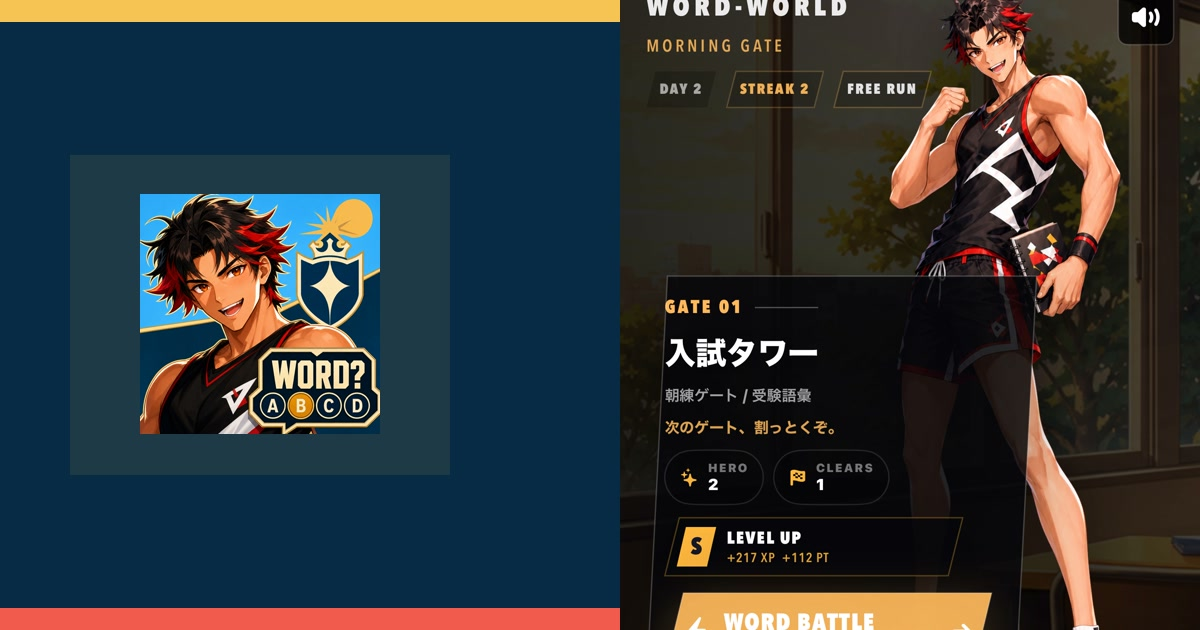
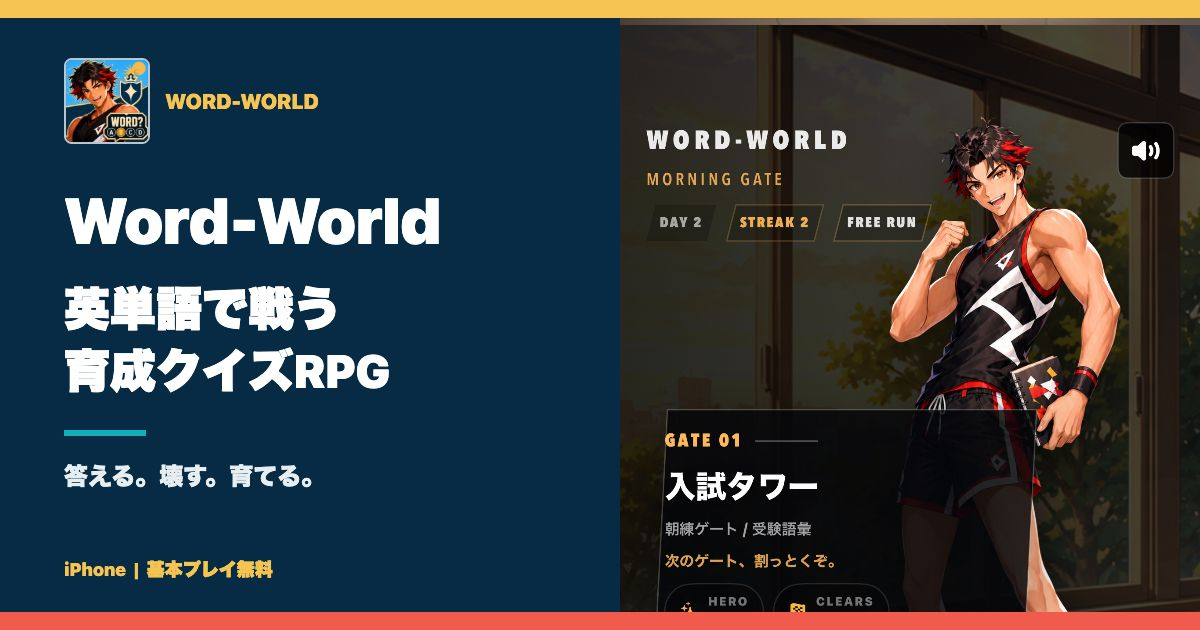
Strengthen launch social preview

diff --git a/social-card.html b/social-card.html
@@ -1,0 +1,99 @@
+<!doctype html>
+<html lang="ja">
+<head>
+  <meta charset="utf-8">
+  <title>Word-World Social Card</title>
+  <style>
+    * { box-sizing: border-box; }
+    html, body { margin: 0; width: 1200px; height: 630px; overflow: hidden; }
+    body {
+      position: relative;
+      background: #082b45;
+      color: #fff;
+      font-family: -apple-system, BlinkMacSystemFont, "Hiragino Sans", "Yu Gothic", sans-serif;
+      letter-spacing: 0;
+    }
+    body::before,
+    body::after {
+      content: "";
+      position: absolute;
+      z-index: 3;
+      left: 0;
+      right: 0;
+      height: 18px;
+    }
+    body::before { top: 0; background: #f6c453; }
+    body::after { bottom: 0; background: #f15b4e; }
+    .copy {
+      position: absolute;
+      z-index: 2;
+      inset: 0 auto 0 0;
+      width: 620px;
+      padding: 58px 58px 52px 64px;
+      background: #082b45;
+    }
+    .brand {
+      display: flex;
+      align-items: center;
+      gap: 15px;
+      margin-bottom: 44px;
+      color: #f6c453;
+      font-size: 21px;
+      font-weight: 900;
+    }
+    .brand img {
+      width: 86px;
+      height: 86px;
+      border: 2px solid rgba(255,255,255,.72);
+      border-radius: 8px;
+    }
+    h1 {
+      margin: 0;
+      font-size: 64px;
+      line-height: 1;
+      font-weight: 950;
+    }
+    h2 {
+      margin: 25px 0 0;
+      font-size: 46px;
+      line-height: 1.36;
+      font-weight: 950;
+    }
+    .rule { width: 82px; height: 6px; margin-top: 28px; background: #14aebb; }
+    p {
+      margin: 22px 0 0;
+      color: #e7eef2;
+      font-size: 24px;
+      line-height: 1.5;
+      font-weight: 800;
+    }
+    .meta {
+      position: absolute;
+      left: 64px;
+      bottom: 48px;
+      color: #f6c453;
+      font-size: 18px;
+      font-weight: 900;
+    }
+    .gameplay {
+      position: absolute;
+      inset: 0 0 0 620px;
+      width: 580px;
+      height: 630px;
+      object-fit: cover;
+      object-position: center 9%;
+    }
+  </style>
+</head>
+<body>
+  <div class="copy">
+    <div class="brand"><img src="assets/AppIcon-1024.png" alt=""><span>WORD-WORLD</span></div>
+    <h1>Word-World</h1>
+    <h2>英単語で戦う<br>育成クイズRPG</h2>
+    <div class="rule"></div>
+    <p>答える。壊す。育てる。</p>
+    <div class="meta">iPhone&nbsp;&nbsp;|&nbsp;&nbsp;基本プレイ無料</div>
+  </div>
+  <img class="gameplay" src="assets/01-home.jpg" alt="">
+</body>
+</html>
